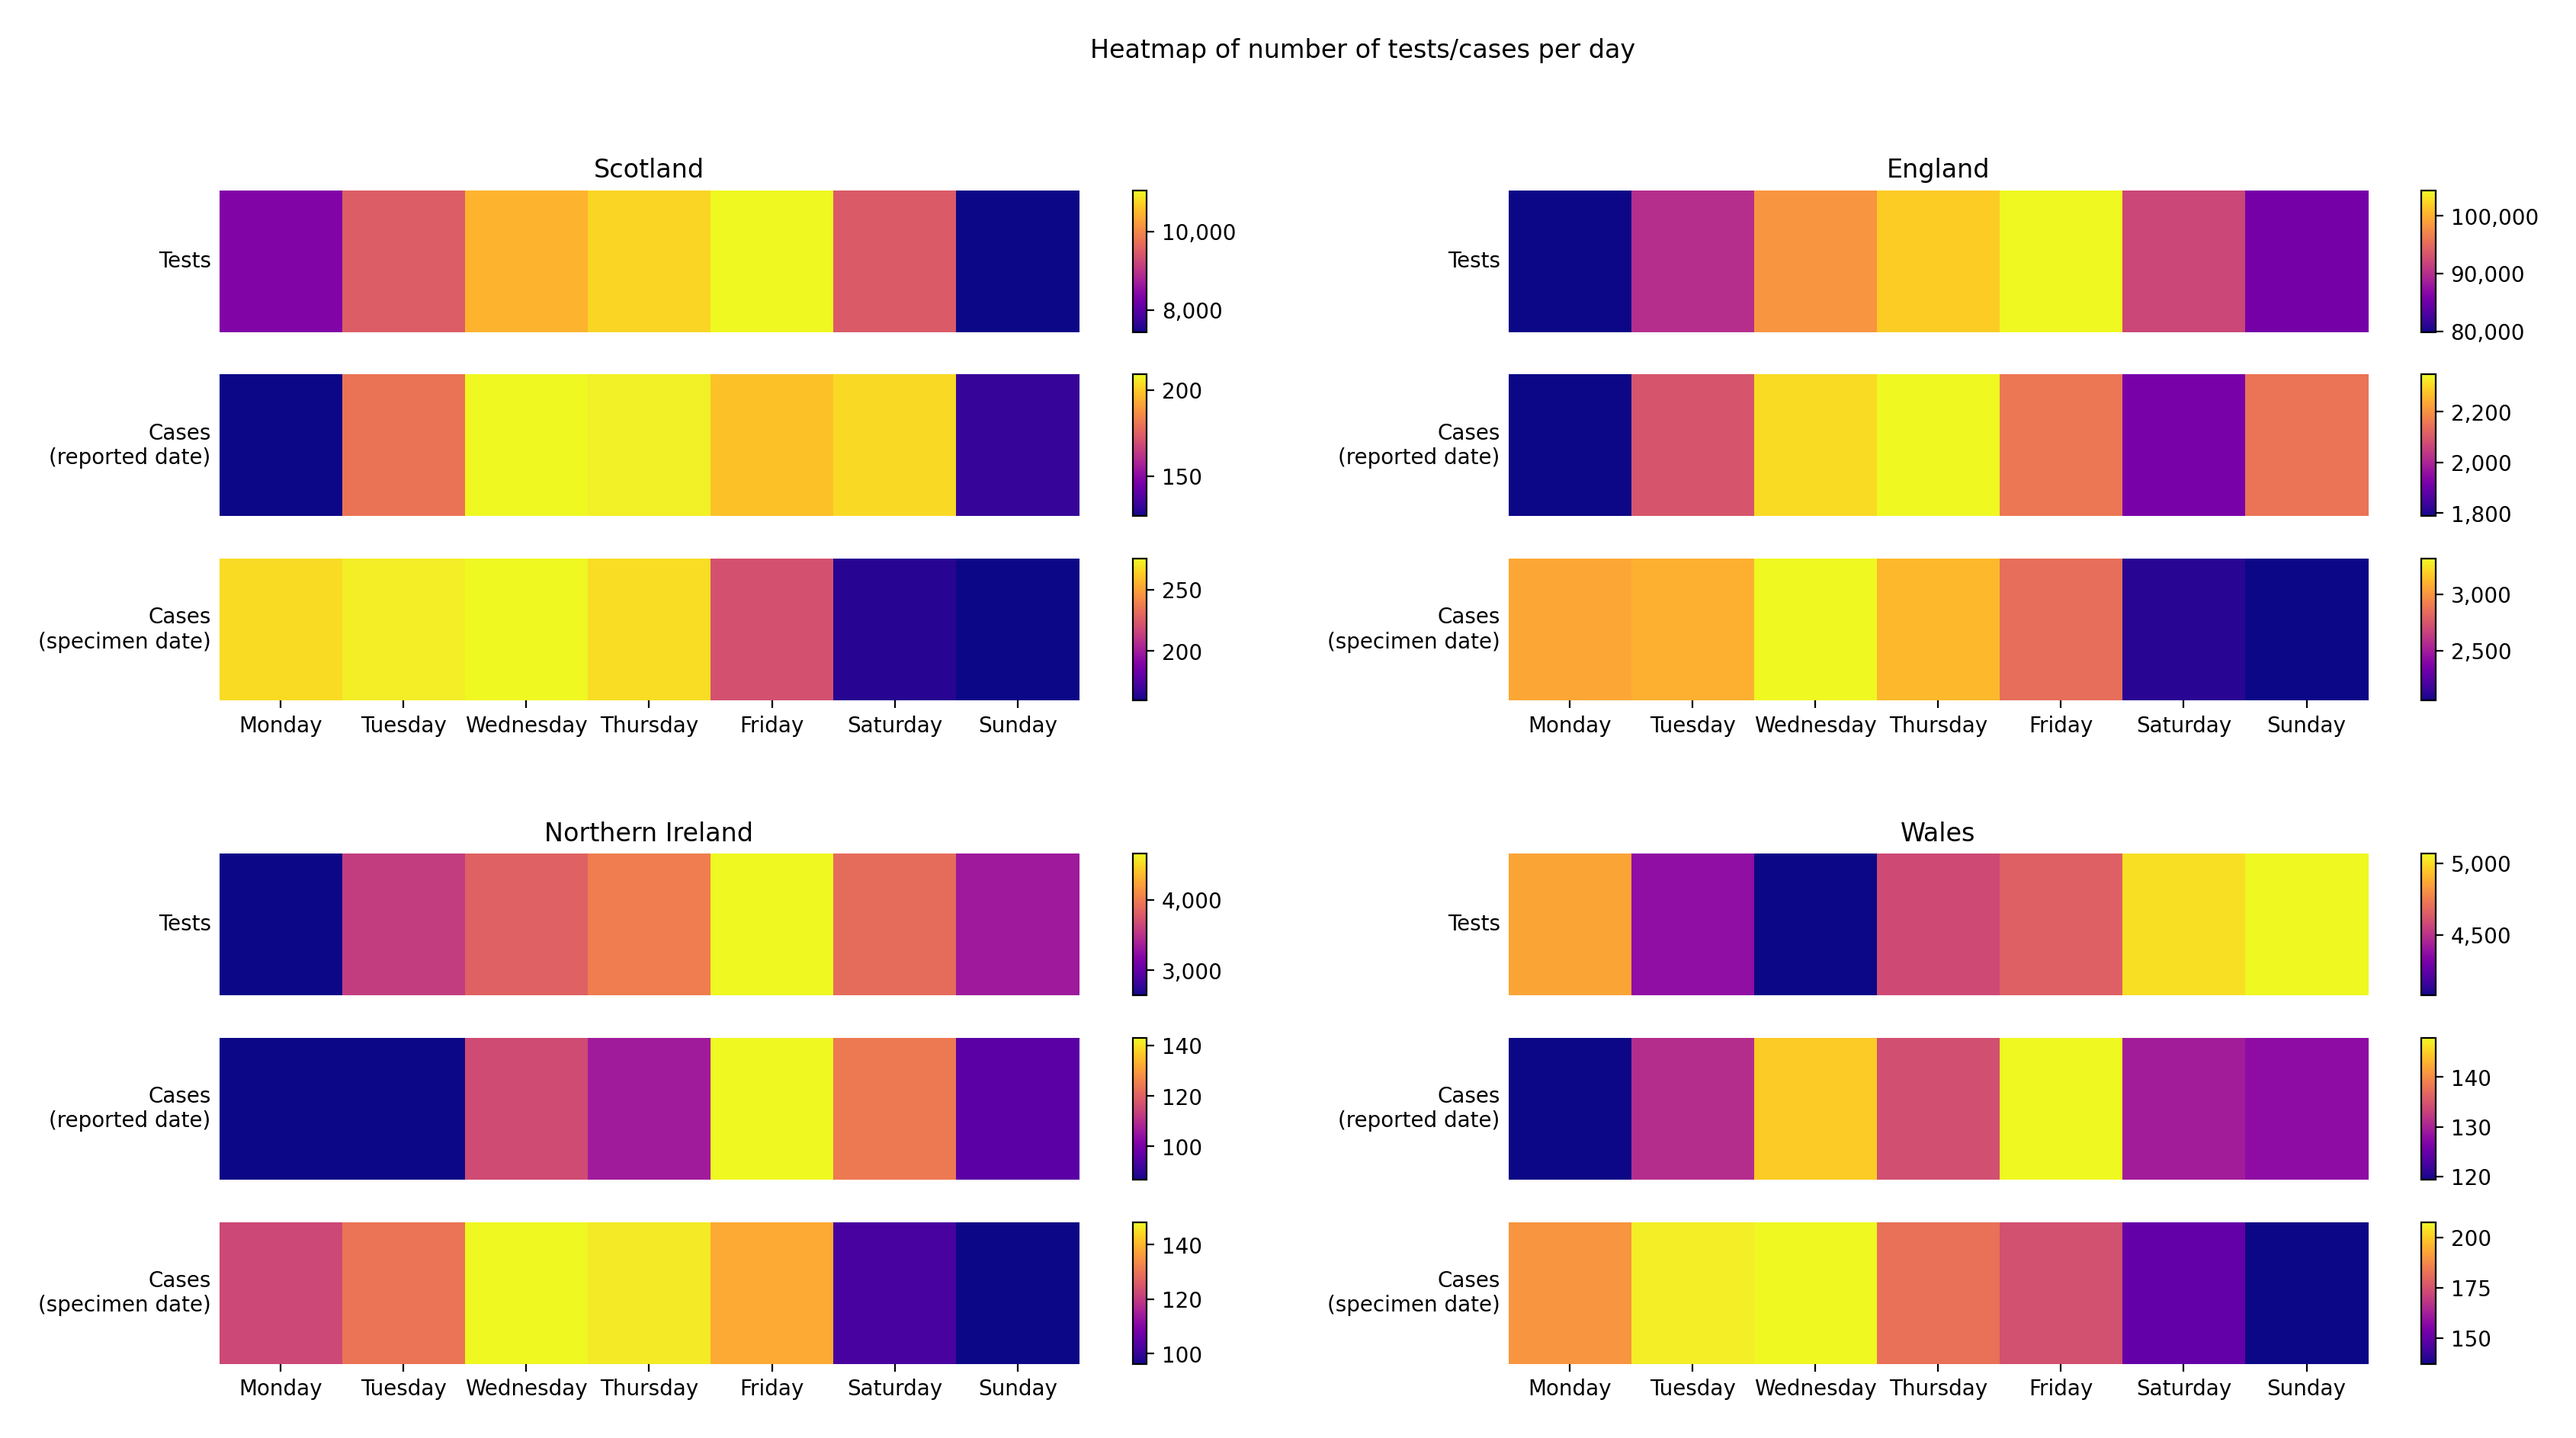
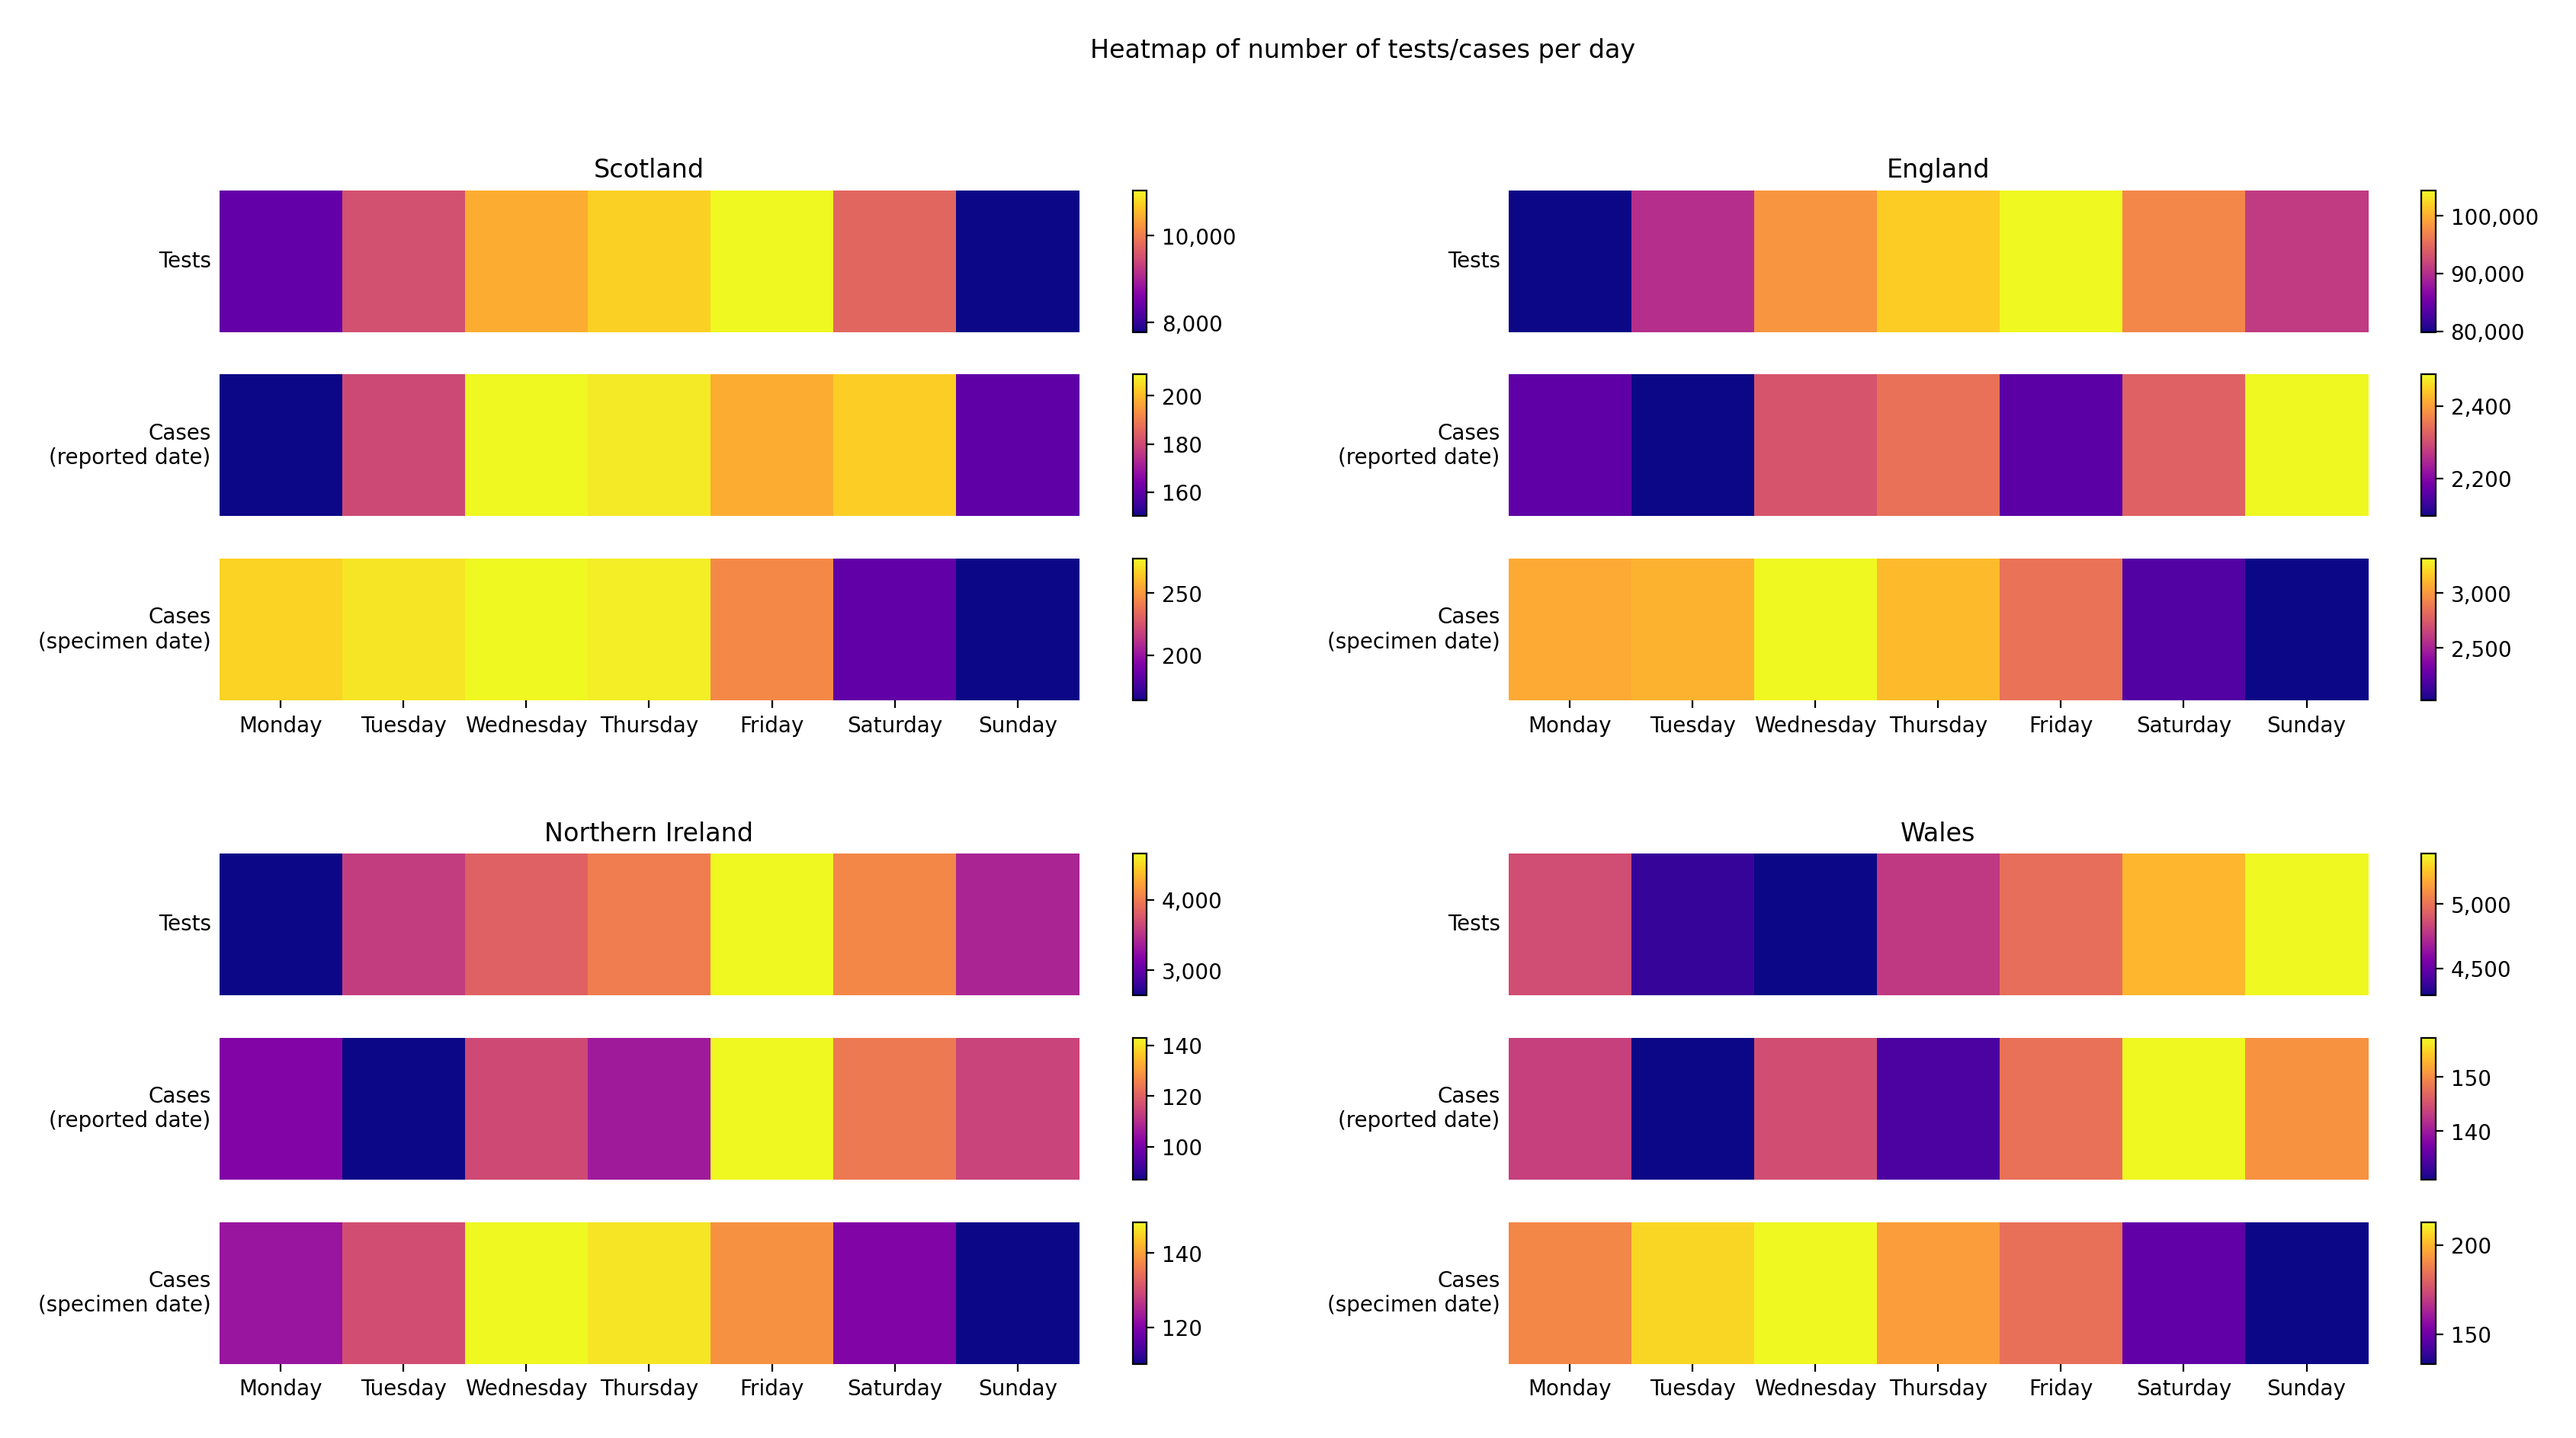
Add stacked plots and index.html

diff --git a/index.html b/index.html
@@ -1,0 +1,56 @@
+<!DOCTYPE html>
+<html lang='en-gb'>
+
+<head>
+  <meta charset="utf-8" />
+  <meta http-equiv="X-UA-Compatible" content="IE=edge">
+  <title>UK Covid-19 Graphs</title>
+  <meta name="msapplication-TileColor" content="#e8e6e3">
+  <meta name="msapplication-config" content="/Icons/browserconfig.xml">
+  <meta name="theme-color" content="#e8e6e3">
+
+  <meta name="viewport" content="width=device-width, initial-scale=1">
+  <link href="https://fonts.googleapis.com/css?family=EB+Garamond%7COpen+Sans" rel="stylesheet">
+  <link rel="stylesheet" type="text/css" href="https://carlinmack.com/blog/css/main.css" />
+</head>
+
+<body>
+  <div id="content">
+    <header>
+      <div class="post-header">
+        <h1 class="title">UK Covid-19 Graphs</h1>
+
+        <div class="meta">Last Update 2020.10.26 20.35</div>
+      </div>
+    </header>
+
+    <div class="container">
+      <div class="markdown">
+        <div class="image"><img src="https://raw.githubusercontent.com/carlinmack/covid-graphs/main/plots/PercentPositive.png" /></div>
+        <div class="image"><img src="https://raw.githubusercontent.com/carlinmack/covid-graphs/main/plots/PercentPositive-Avg.png" /></div>
+        <div class="image"><img src="https://raw.githubusercontent.com/carlinmack/covid-graphs/main/plots/PercentPositive-Nation.png" /></div>
+        <div class="image"><img src="https://raw.githubusercontent.com/carlinmack/covid-graphs/main/plots/PercentPositive-Nation-Avg.png" /></div>
+        <div class="image"><img src="https://raw.githubusercontent.com/carlinmack/covid-graphs/main/plots/DoubleBarChart.png" /></div>
+        <div class="image"><img src="https://raw.githubusercontent.com/carlinmack/covid-graphs/main/plots/DoubleBarChart-Avg.png" /></div>
+        <div class="image"><img src="https://raw.githubusercontent.com/carlinmack/covid-graphs/main/plots/DoubleBarChart-Nation.png" /></div>
+        <div class="image"><img src="https://raw.githubusercontent.com/carlinmack/covid-graphs/main/plots/DoubleBarChart-Nation-Avg.png" /></div>
+        <div class="image"><img src="https://raw.githubusercontent.com/carlinmack/covid-graphs/main/plots/Stacked-Nation.png" /></div>
+        <div class="image"><img src="https://raw.githubusercontent.com/carlinmack/covid-graphs/main/plots/Stacked-Nation-Avg.png" /></div>
+        <div class="image"><img src="https://raw.githubusercontent.com/carlinmack/covid-graphs/main/plots/Stacked-Nation-Per-Capita.png" /></div>
+        <div class="image"><img src="https://raw.githubusercontent.com/carlinmack/covid-graphs/main/plots/Stacked-Nation-Per-Capita-Avg.png"/></div>
+        <div class="image"><img src="https://raw.githubusercontent.com/carlinmack/covid-graphs/main/plots/testsCasesHeatMap.png" /></div>
+        <div class="image"><img src="https://raw.githubusercontent.com/carlinmack/covid-graphs/main/plots/testsCasesHeatMap-Nation.png" /></div>
+      </div>
+    </div>
+  </div>
+    <footer class="footer">
+      <div id='footerText'>
+        <p><a rel="license" href="http://creativecommons.org/licenses/by/4.0/" target="_blank"
+            rel="noreferrer noopener">
+            <img width="16px" height="16px" src="https://carlinmack.com/SVG/cc.svg" alt="Creative Commons Licence">
+            <img width="16px" height="16px" src="https://carlinmack.com/SVG/by.svg" alt="Creative Commons By"> </a></p>
+      </div>
+    </footer>
+</body>
+
+</html>

diff --git a/plot.py b/plot.py
@@ -3,6 +3,7 @@ import os
 import requests
 from datetime import datetime as dt
 from datetime import timedelta
+from operator import add
 
 import matplotlib.pyplot as plt
 import matplotlib.ticker as tkr
@@ -105,7 +106,7 @@ def ukPlot(dataDir="data/", plotsDir="plots/", avg=True):
         tests = n_day_avg(tests, 7)
 
     # remove the most recent two dates as they won't be accurate yet
-    skip = 2
+    skip = 3
     cases = cases[skip:]
     casesDates = casesDates[skip:]
     tests = tests[skip:]
@@ -254,7 +255,7 @@ def nationPlot(dataDir="data/", plotsDir="plots/", avg=True):
                 tests[j] = 0
 
         # remove the most recent two dates as they won't be accurate yet
-        skip = 2
+        skip = 3
         nationsCases.append(cases[skip:])
         nationCasesDates.append(casesDates[skip:])
 
@@ -354,6 +355,123 @@ def nationPlot(dataDir="data/", plotsDir="plots/", avg=True):
 
         ax.spines["top"].set_visible(False)
         ax.spines["right"].set_visible(False)
+
+    plt.gcf().set_size_inches(15, 9)
+
+    savePlot(figname)
+
+def nationReportedPlot(dataDir="data/", plotsDir="plots/", avg=True):    
+    nations = ["England", "Northern Ireland", "Scotland", "Wales"]
+    colors = ["#5694CA", "#FFDD00", "#003078", "#D4351C"]
+    populations = [56286961,1893667,5463300,3152879]
+
+    nationsReported = []
+    nationDates = []
+
+    days = [
+        "Monday",
+        "Tuesday",
+        "Wednesday",
+        "Thursday",
+        "Friday",
+        "Saturday",
+        "Sunday",
+    ]
+
+    today = dt.today()
+
+    for nation in nations:
+        filePrefix = dataDir + nation
+        reportedFileName = (
+            filePrefix + ".cases.reported." + today.strftime("%Y-%m-%d") + ".csv"
+        )
+
+        with open(reportedFileName, "r") as file:
+            next(file)
+            reader = csv.reader(file, delimiter=",")
+            reportedData = [[line[0], int(line[1])] for line in reader]
+            
+        reportedData = np.array(reportedData)
+        testDates = reportedData[:, 0]
+        testDates = [dt.strptime(x, "%Y-%m-%d") for x in testDates]
+        reportedData = reportedData[:, 1].astype(np.float)
+
+        nationsReported.append(reportedData)
+        nationDates.append(testDates)
+
+    figname = plotsDir + "Stacked-Nation"
+    if avg:
+        figname += "-Avg"
+    plt.figure()
+    _, ax = plt.subplots()
+    ax.set_title("Cases by date reported")
+
+    bottom = [0] * len(nationsReported[0])
+
+    for j, nation in enumerate(nations):
+        reportedData = nationsReported[j]
+
+        if avg:
+            reportedData = n_day_avg(reportedData, 7)
+
+        ax.bar(nationDates[j], reportedData, color=colors[j], label=nation, bottom=bottom)
+
+        bottom = list(map(add, reportedData, bottom)) 
+
+    ax.xaxis_date()
+    ax.set_xlim(
+        left=dt.strptime("2020-03-01", "%Y-%m-%d"), right=today,
+    )
+
+    yLabel = "Cases"
+    if avg:
+        yLabel += " (seven day average)"
+    ax.set_ylabel(yLabel)
+    
+    ax.yaxis.set_major_formatter(tkr.FuncFormatter(threeFigureFormatter))
+
+    removeSpines(ax)
+
+    plt.gcf().set_size_inches(15, 9)
+
+    savePlot(figname)
+
+    # Per Capita
+
+    figname = plotsDir + "Stacked-Nation-Per-Capita"
+    if avg:
+        figname += "-Avg"
+    plt.figure()
+    _, ax = plt.subplots()
+    ax.set_title("Cases by date reported, per capita")
+
+    bottom = [0] * len(nationsReported[0])
+
+    for j, nation in enumerate(nations):
+        reportedData = nationsReported[j]
+
+        if avg:
+            reportedData = n_day_avg(reportedData, 7)
+
+        reportedData = [x / populations[j] for x in reportedData]
+
+        ax.bar(nationDates[j], reportedData, color=colors[j], label=nation, bottom=bottom)
+
+        bottom = list(map(add, reportedData, bottom)) 
+
+    ax.xaxis_date()
+    ax.set_xlim(
+        left=dt.strptime("2020-03-01", "%Y-%m-%d"), right=today,
+    )
+
+    yLabel = "Cases"
+    if avg:
+        yLabel += " (seven day average)"
+    ax.set_ylabel(yLabel)
+    
+    ax.yaxis.set_major_formatter(tkr.FuncFormatter(threeFigureFormatter))
+
+    removeSpines(ax)
 
     plt.gcf().set_size_inches(15, 9)
 
@@ -481,11 +599,9 @@ def nationHeatMapPlot(dataDir="data/", plotsDir="plots/"):
                 for line in reader
             ]
 
-        # remove the most recent two dates as they won't be accurate yet
-        skip = 2
-        casesDf = pd.DataFrame(casesData[skip:], columns=["Date", "Cases"])
-        reportedDf = pd.DataFrame(reportedData[skip:], columns=["Date", "Cases"])
-        testsDf = pd.DataFrame(testsData[skip:], columns=["Date", "Tests"])
+        casesDf = pd.DataFrame(casesData, columns=["Date", "Cases"])
+        reportedDf = pd.DataFrame(reportedData, columns=["Date", "Cases"])
+        testsDf = pd.DataFrame(testsData, columns=["Date", "Tests"])
 
         casesDf["Date"] = pd.to_datetime(casesDf["Date"])
         reportedDf["Date"] = pd.to_datetime(reportedDf["Date"])
@@ -589,14 +705,17 @@ if __name__ == "__main__":
     if not os.path.exists(plotsDir):
         os.mkdir(plotsDir)
 
-    getData(dataDir)
+    # getData(dataDir)
 
-    ukPlot(dataDir, plotsDir, avg=False)
-    ukPlot(dataDir, plotsDir)
+    # ukPlot(dataDir, plotsDir, avg=False)
+    # ukPlot(dataDir, plotsDir)
 
-    nationPlot(dataDir, plotsDir, avg=False)
-    nationPlot(dataDir, plotsDir)
+    # nationPlot(dataDir, plotsDir, avg=False)
+    # nationPlot(dataDir, plotsDir)
 
-    heatMapPlot(dataDir, plotsDir)
-    nationHeatMapPlot(dataDir, plotsDir)
+    nationReportedPlot(dataDir, plotsDir)
+    nationReportedPlot(dataDir, plotsDir, avg=False)
+
+    # heatMapPlot(dataDir, plotsDir)
+    # nationHeatMapPlot(dataDir, plotsDir)
 

diff --git a/plots/README.md b/plots/README.md
@@ -14,6 +14,14 @@
 
 ![image](DoubleBarChart-Nation-Avg.png)
 
+![image](Stacked-Nation.png)
+
+![image](Stacked-Nation-Avg.png)
+
+![image](Stacked-Nation-Per-Capita.png)
+
+![image](Stacked-Nation-Per-Capita-Avg.png)
+
 ![image](testsCasesHeatMap.png)
 
 ![image](testsCasesHeatMap-Nation.png)
